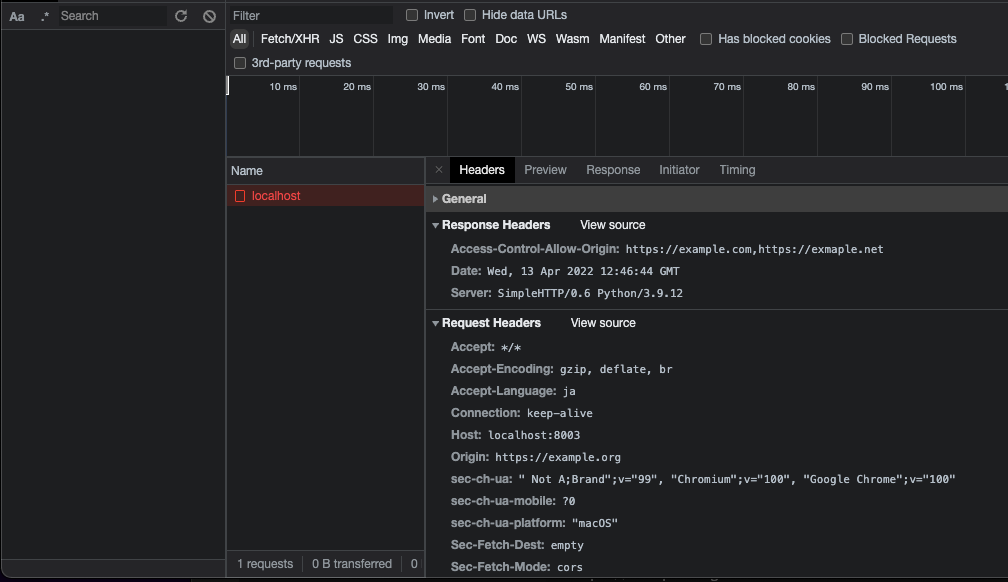
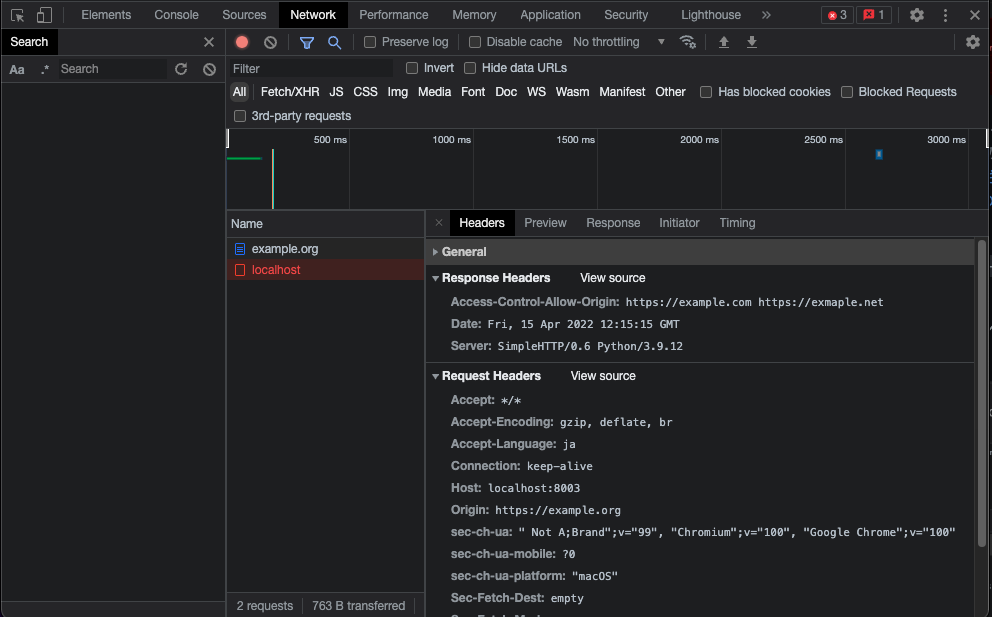
Apply space-separator & Improve 3.a text

diff --git a/srv.py b/srv.py
@@ -10,8 +10,8 @@ class CORSRequestHandler(SimpleHTTPRequestHandler):
         self.send_response(200)
         origin = self.headers['Origin']
         print(origin)
-        acao = origin if self.is_valid_origin(origin) else ','.join(self.valid_origin_list)
-        self.send_header('Access-Control-Allow-Origin', acao)
+        acao = origin if self.is_valid_origin(origin) else ' '.join(self.valid_origin_list)
+        self.send_header('Access-Control-Allow-Origin', 'https://example.com',)
         self.end_headers()
         self.wfile.write(b'Hello CORS!')
         return

diff --git a/README.md b/README.md
@@ -143,7 +143,7 @@ await (await fetch(url)).text()
 - サーバ側でCORSヘッダーを検査し、レスポンスにエラー（4xx）を返す
 - レスポンスは正常に返し、クライアントにCORSヘッダーを検査させる
 
-このハンズオンでは、`Access-Control-Origin-Header`レスポンスヘッダーに許可されるオリジンのリスト（`,`区切り）を設定して返すこととします。この実装は実際にデバッグの際に役立ちますが、副作用を伴うリクエストのレスポンスには向いていません。
+このハンズオンでは、`Access-Control-Origin-Header`レスポンスヘッダーに許可されるオリジンのリスト（スペース区切り）を設定して返すこととします。この実装は実際にデバッグの際に役立ちますが、副作用を伴うリクエストのレスポンスには向いていません。
 
 想定する動作は次のようになります。
 
@@ -172,7 +172,7 @@ class CORSRequestHandler(SimpleHTTPRequestHandler):
          self.send_response(200)
 -        self.send_header('Access-Control-Allow-Origin', '*')
 +        origin = self.headers['Origin']
-+        acao = origin if self.is_valid_origin(origin) else ','.join(self.valid_origin_list)
++        acao = origin if self.is_valid_origin(origin) else ' '.join(self.valid_origin_list)
 +        self.send_header('Access-Control-Allow-Origin', acao)
          self.end_headers()
          self.wfile.write(b'Hello CORS!')
@@ -203,23 +203,27 @@ await fetch(url)
 
 ![](img/validate-origin-fetch-error-console.png)
 
-> オリジン 'https://example.org' からの 'http://localhost:8003/' での fetch へのアクセスは、CORS ポリシーによってブロックされました。Access-Control-Allow-Origin ヘッダーに複数の値「https://example.com,https://exmaple.net」が含まれていますが、許可されるのは1つだけです。サーバーに有効な値のヘッダーを送信させるか、不透明な応答が必要な場合は、要求のモードを「no-cors」に設定して、CORSを無効にしてリソースをフェッチしてください。
+> オリジン 'https://example.org' からの 'http://localhost:8003/' での fetch へのアクセスは、CORS ポリシーによってブロックされました。Access-Control-Allow-Origin ヘッダーに複数の値 'https://example.com https://exmaple.net' が含まれていますが、許可されるのは1つだけです。サーバーに有効な値のヘッダーを送信させるか、不透明な応答が必要な場合は、要求のモードを 'no-cors' に設定して、CORSを無効にしてリソースをフェッチしてください。
 
 `fetch`メソッドの実行は失敗し、エラーメッセージには、`Access-Control-Allow-Origin` ヘッダーに複数のオリジンが含まれているという理由で失敗しています。
 
-実際に、Networkタブをみると `Access-Control-Allow-Origin` レスポンスヘッダーには複数のオリジン `https://example.com,https://exmaple.net` が含まれていることが分かります。
+実際に、Networkタブをみると `Access-Control-Allow-Origin` レスポンスヘッダーには複数のオリジン `https://example.com https://exmaple.net` が含まれていることが分かります。
 
 ![](img/validate-origin-fetch-error-network.png)
 
-[Cross-Origin Resource Sharing - 5.1 Access-Control-Allow-Origin Response Header](https://www.w3.org/TR/2020/SPSD-cors-20200602/#access-control-allow-origin-response-header) では  `origin-list-or-null` が定義されていますが、多くのブラウザでは単一のオリジンしか許容しないようになっています。
+[Cross-Origin Resource Sharing - 5.1 Access-Control-Allow-Origin Response Header](https://www.w3.org/TR/2020/SPSD-cors-20200602/#access-control-allow-origin-response-header) では  `origin-list-or-null` が定義されていますが、`Note`に以下のような記述があります。
 
-補足
+> 実際には、origin-list-or-null実装はより制約されています。スペースで区切られたオリジンのリストを許可するのではなく、単一のオリジンまたは文字列 "null" のどちらかを指定します。
 
-このハンズオンでは、不正なオリジンを伴うリクエストがきた時に、複数の正しいオリジンのリストを返すよう実装しましたが、単一の正しいオリジンを返すようにすると以下のようになります。
+多くのブラウザでは単一のオリジンしか許容しないようになっています。
+
+### 3.a 不正な単一オリジン
+
+このハンズオンでは、不正なオリジンを伴うリクエストがきた時に、複数の正しいオリジンのリストを返すよう実装しました。補足として、単一の正しいオリジンを返すようにした場合の結果を以下に示します。
 
 ![](img/validate-origin-single-invalid-origin-console.png)
 
-> オリジン 'https://example.org' からの 'http://localhost:8003/' でのフェッチへのアクセスは、CORS ポリシーによってブロックされました。Access-Control-Allow-Origin' ヘッダーの値 'https://example.com' は指定されたオリジンと同じではありません。サーバーに有効な値のヘッダーを送信させるか、不透明な応答が必要な場合は、要求のモードを「no-cors」に設定して、CORS を無効にしてリソースをフェッチしてください。
+> オリジン 'https://example.org' からの 'http://localhost:8003/' でのフェッチへのアクセスは、CORS ポリシーによってブロックされました。'Access-Control-Allow-Origin' ヘッダーの値 'https://example.com' は指定されたオリジンと同じではありません。サーバーに有効な値のヘッダーを送信させるか、不透明な応答が必要な場合は、要求のモードを 'no-cors' に設定して、CORS を無効にしてリソースをフェッチしてください。
 
 # 参考
 
